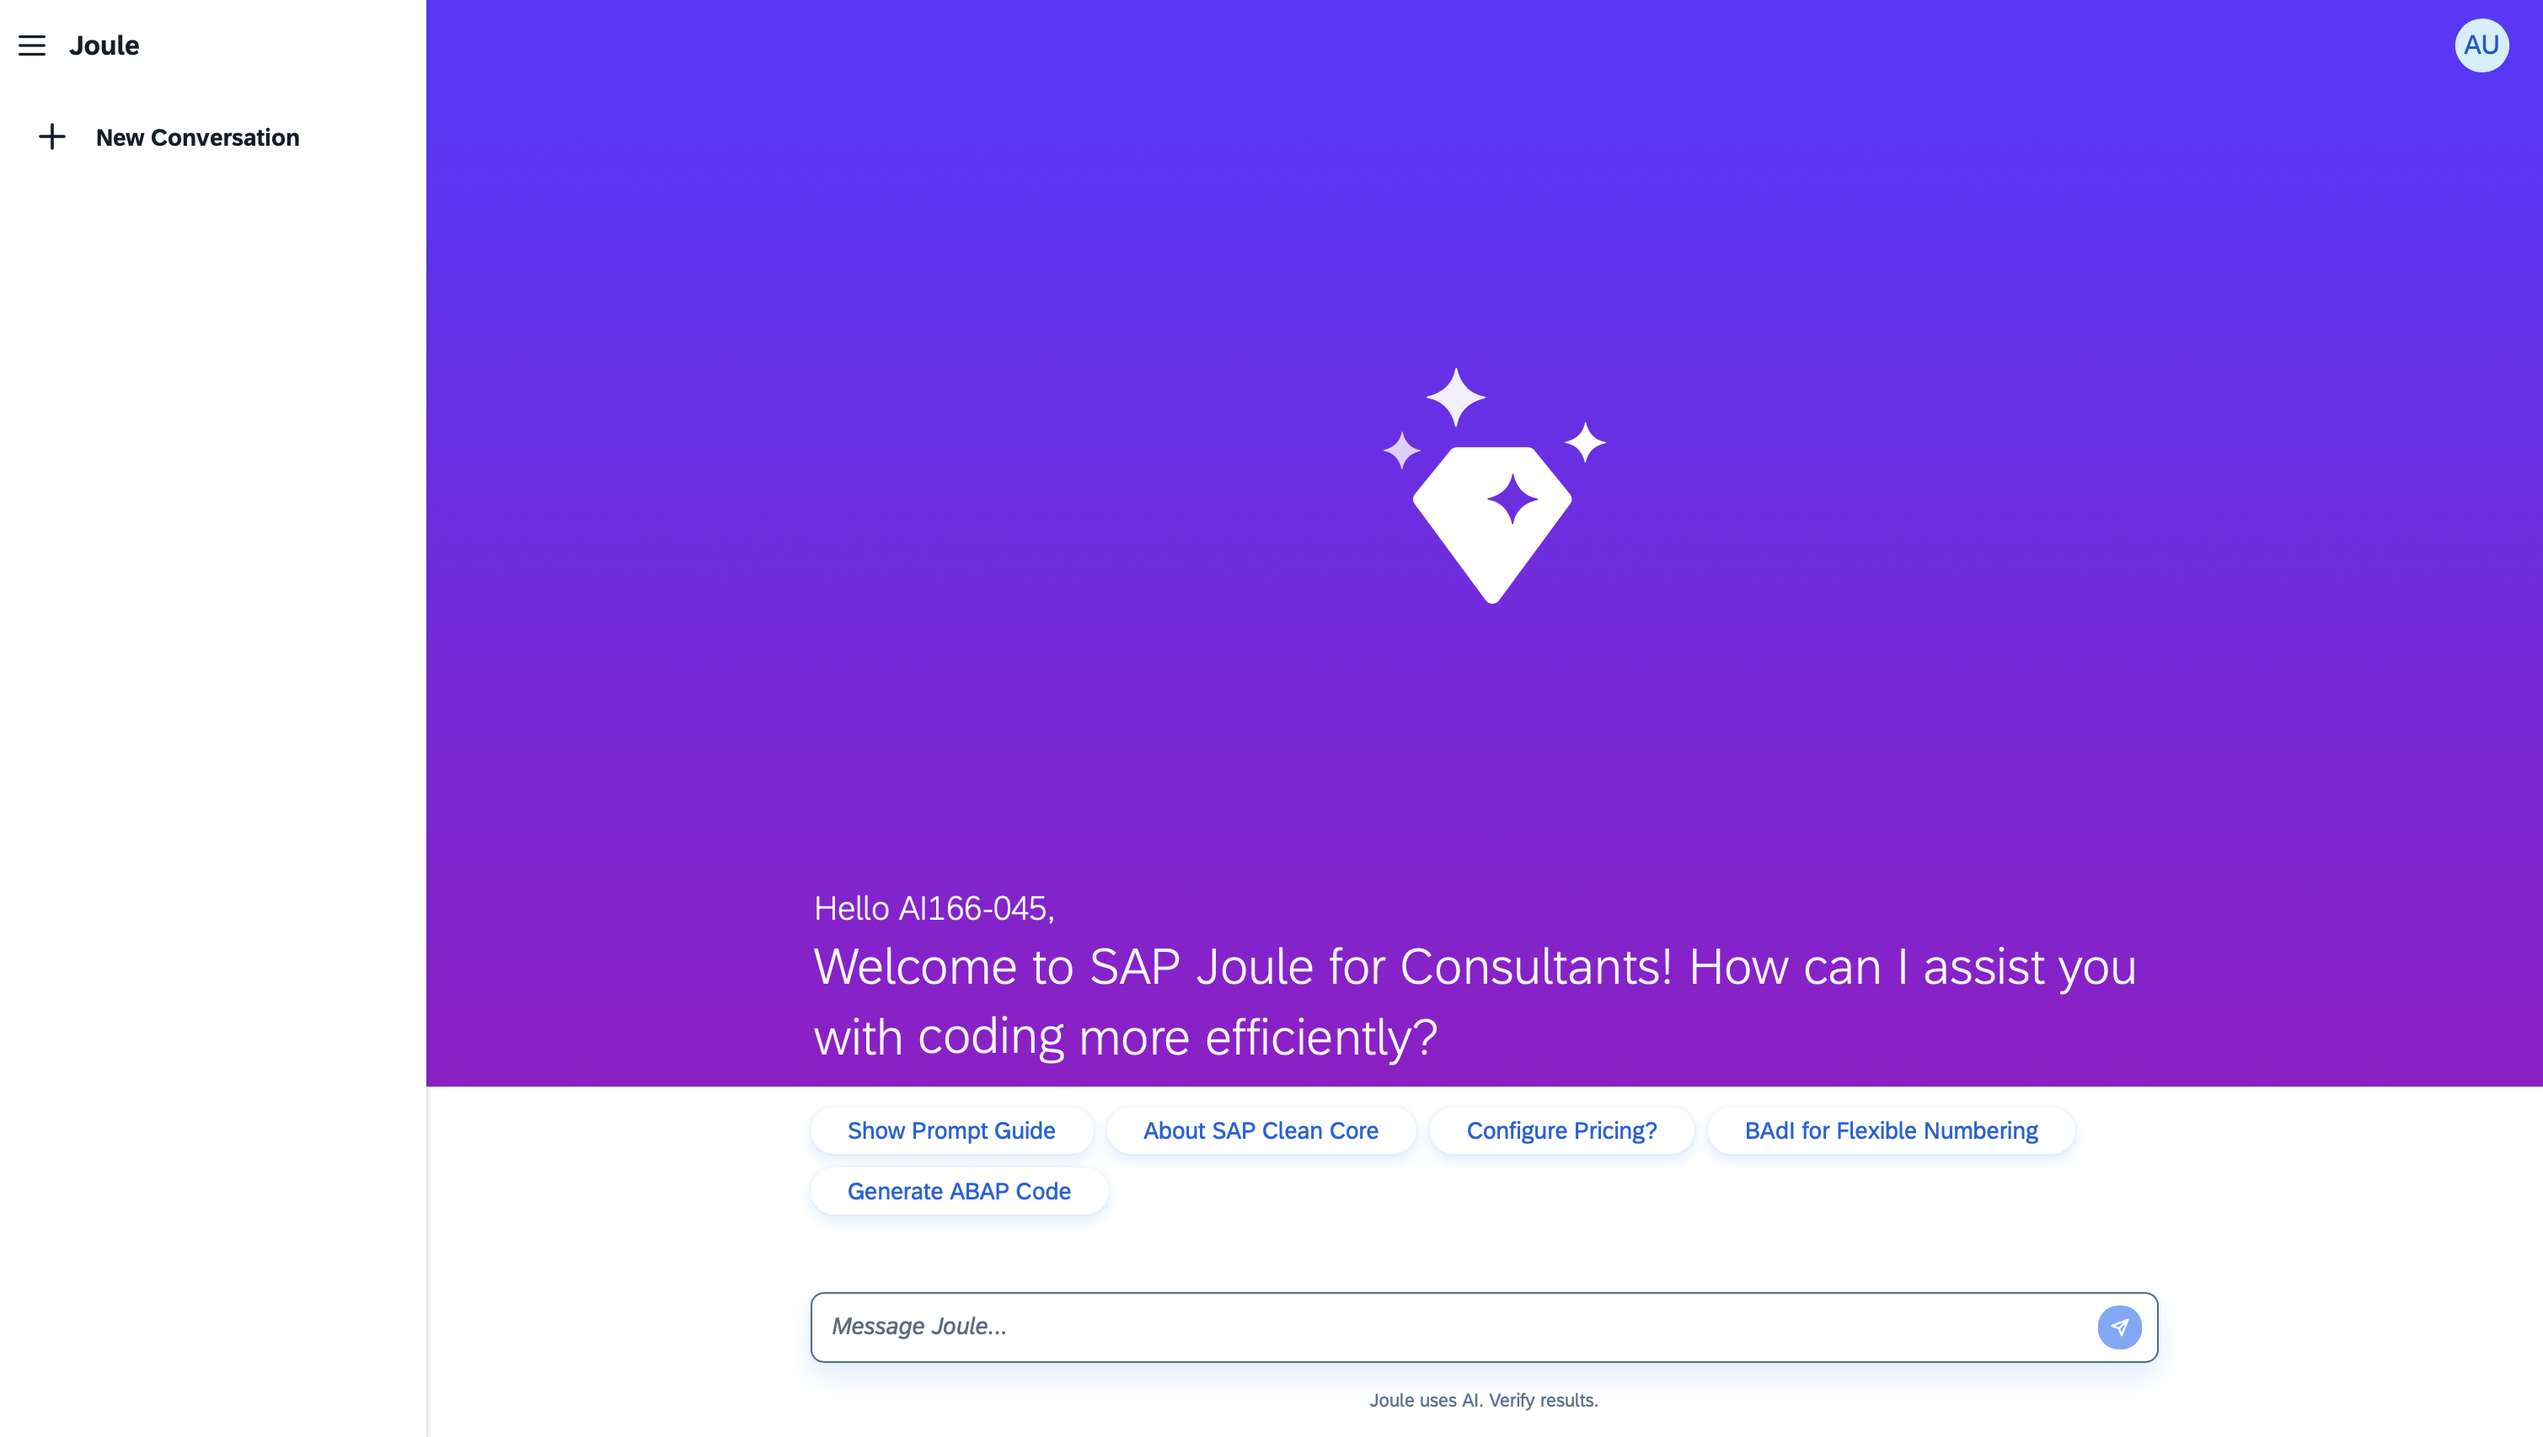
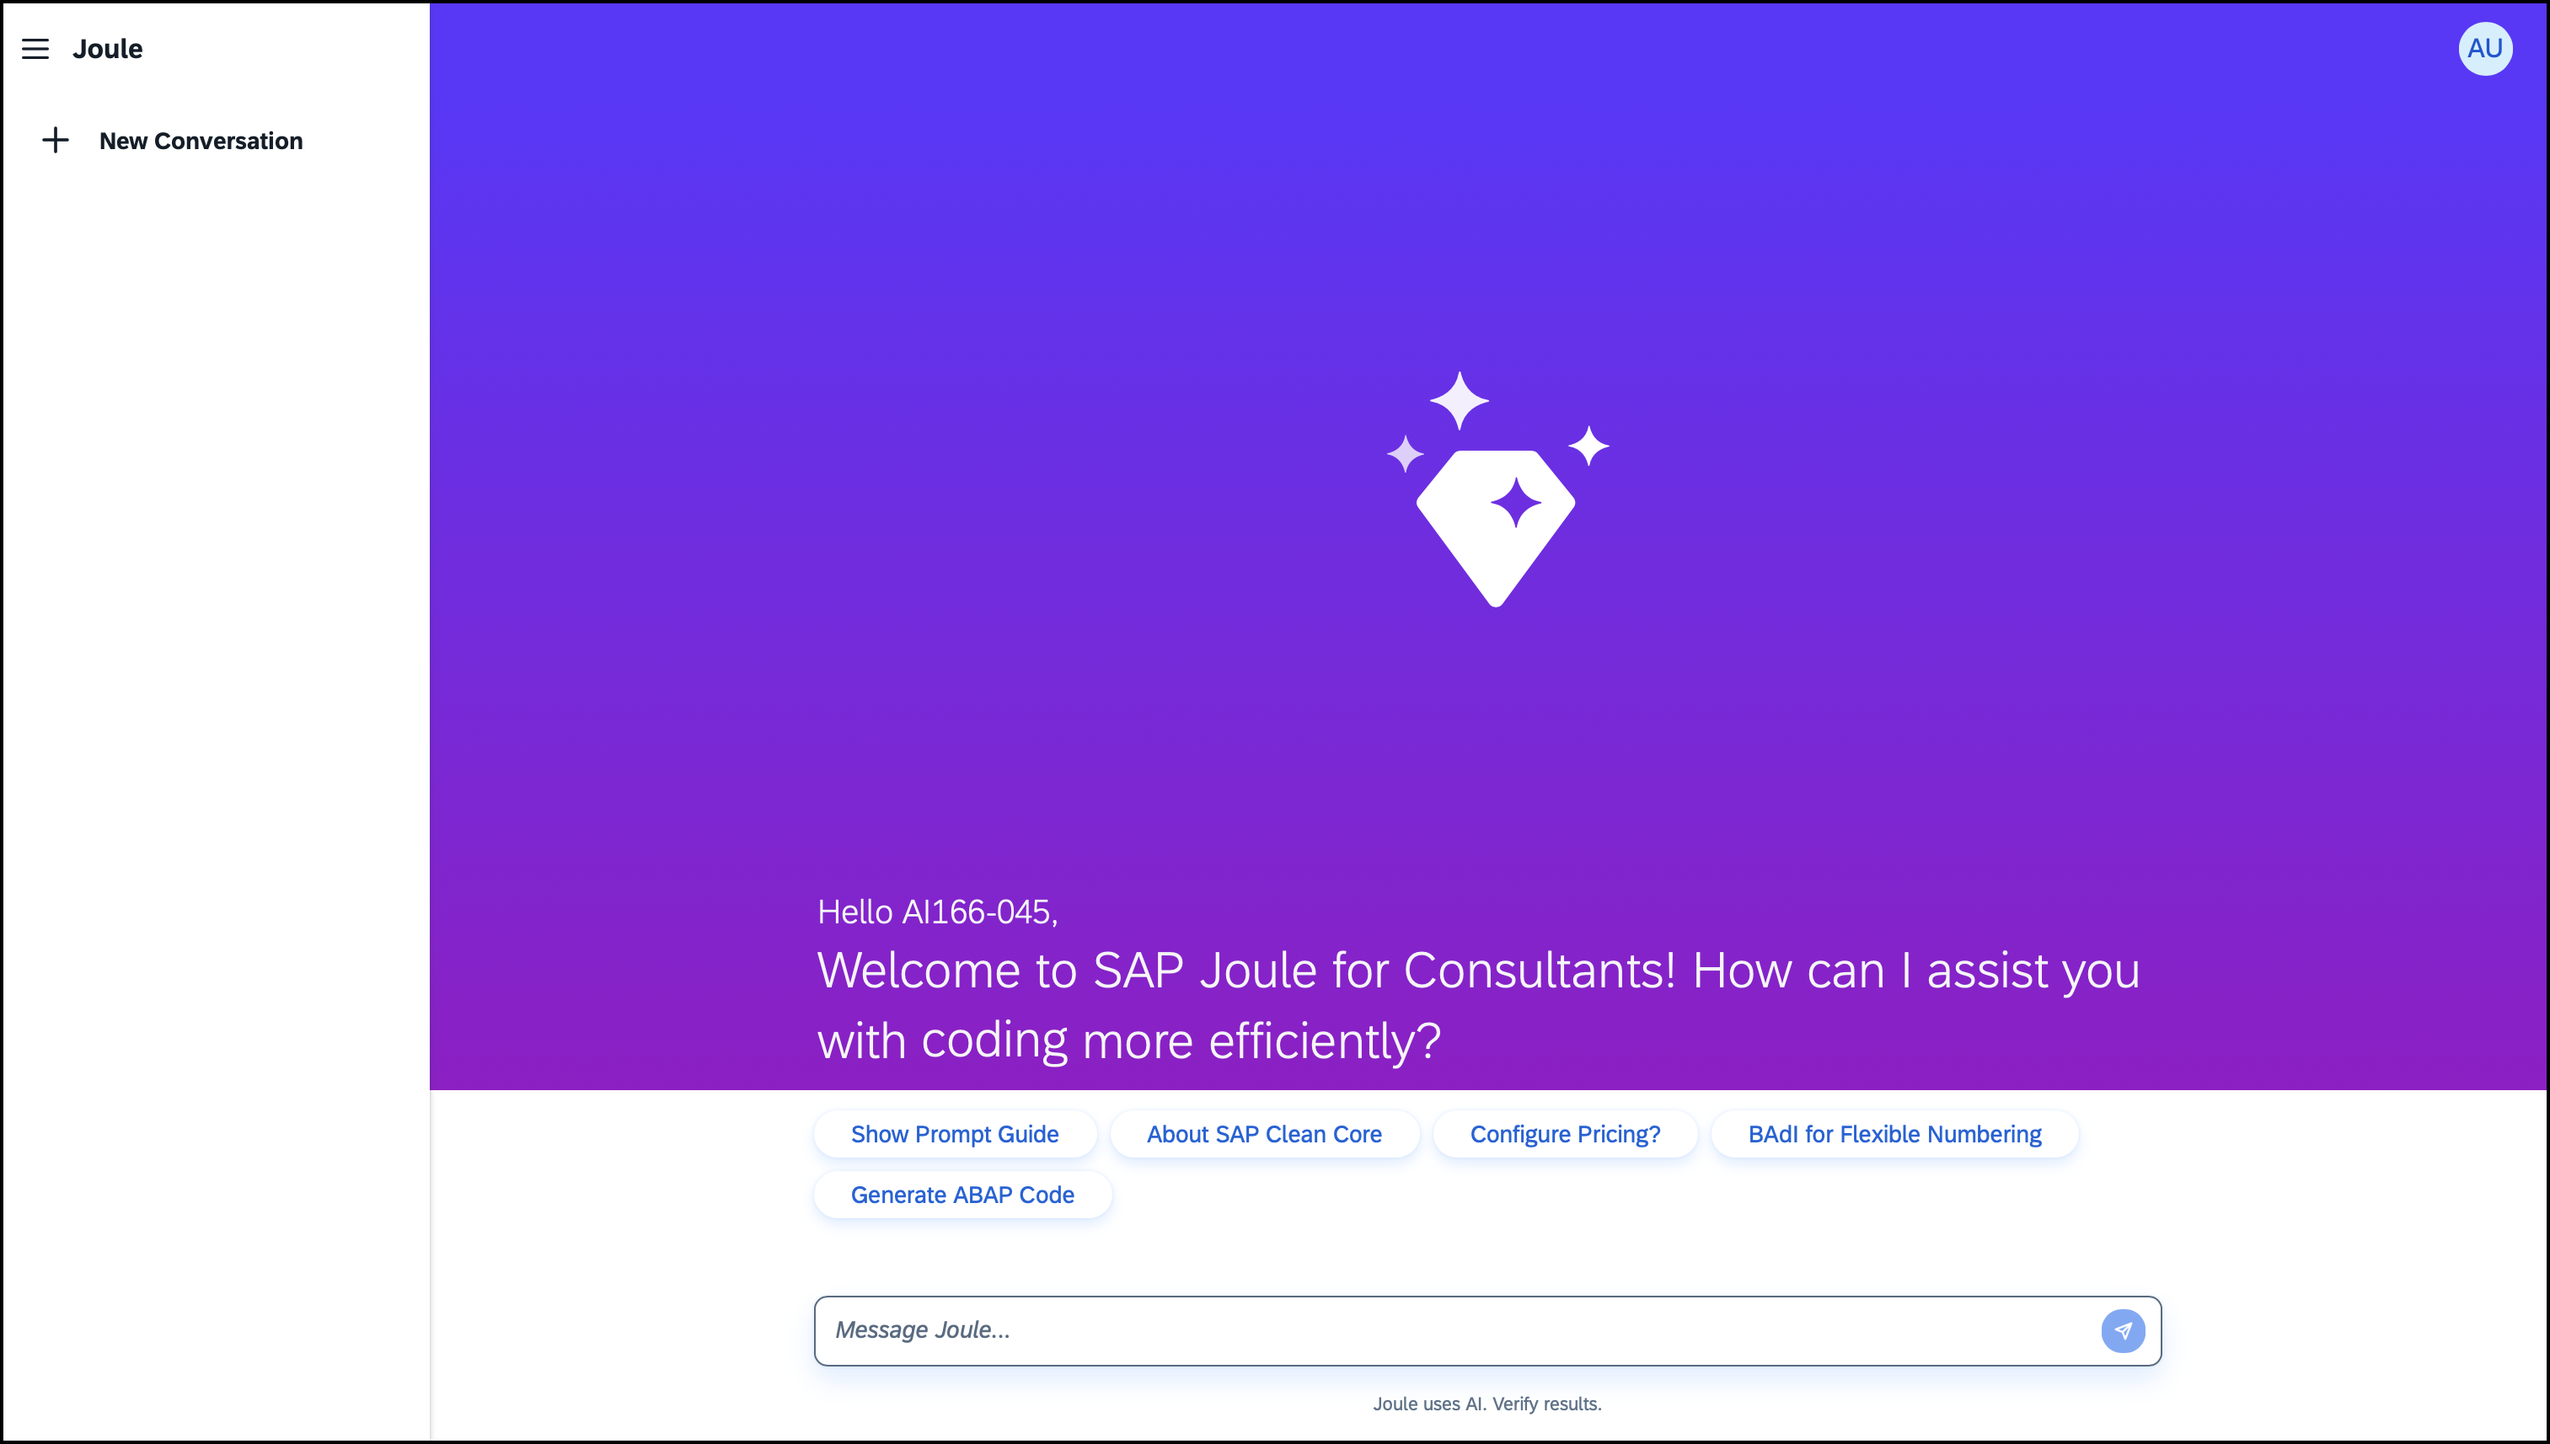
Added border to image in Snagit and removed html css styling in markdown

diff --git a/exercises/ex1/README.md b/exercises/ex1/README.md
@@ -9,7 +9,7 @@ In this exercise, you’ll leverage J4C to choose the technology stack for the m
 1. Launch J4C - <a href="https://ai166-ftaiywgj.eu10.sapdas.cloud.sap/joule" target="_blank" rel="noopener noreferrer">https://ai166-ftaiywgj.eu10.sapdas.cloud.sap/joule</a>
 2.  Login using the credentials provided to you by the session speakers
 
-      <img src="images/j4c-landing.png" alt="Screenshot" width="800" style="border:2px solid #000000ff; border-radius:8px;" />
+      <img src="images/j4c-landing.png" alt="Screenshot" width="800" />
 
 
 ## Exercise 1.2 Determine Technology Stack
